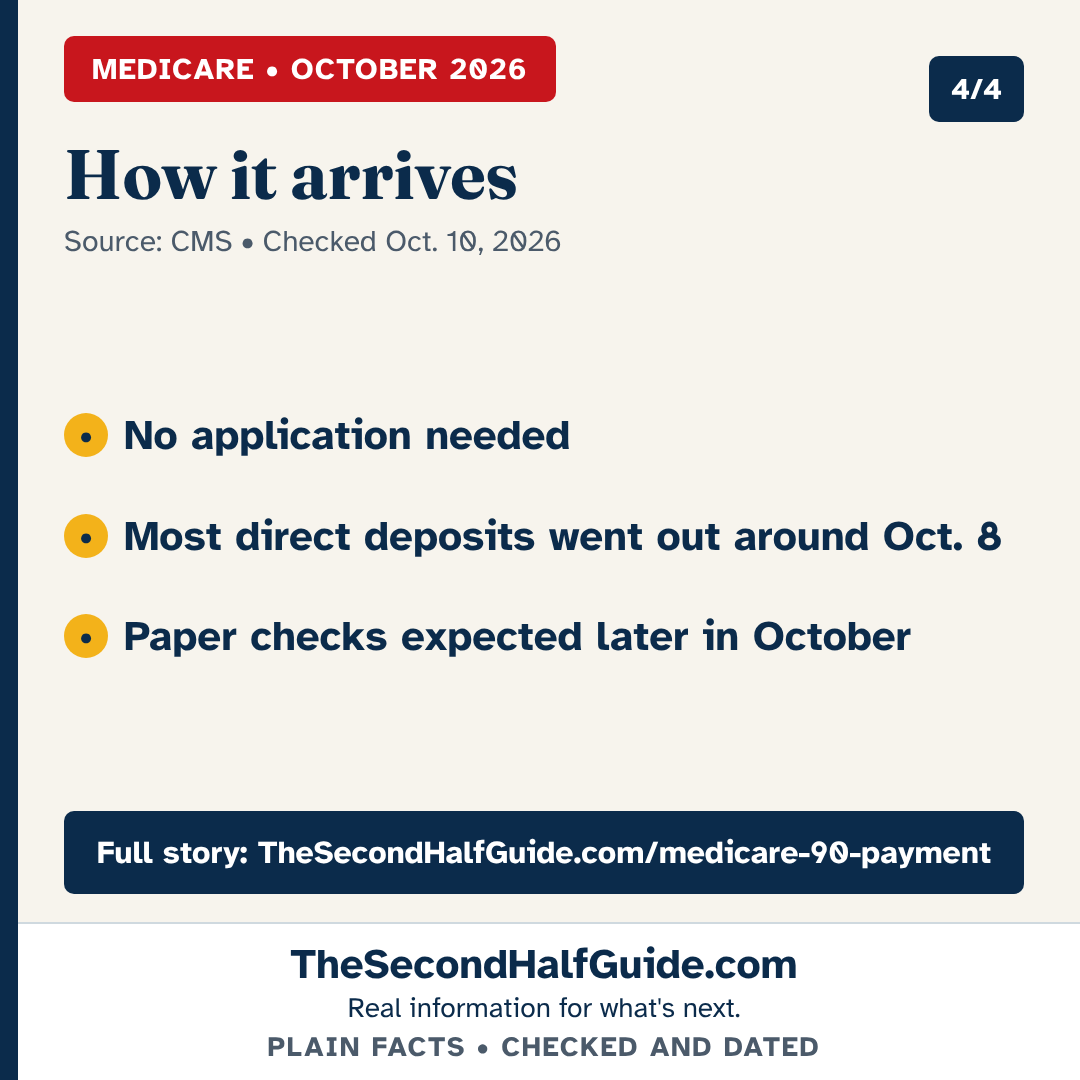
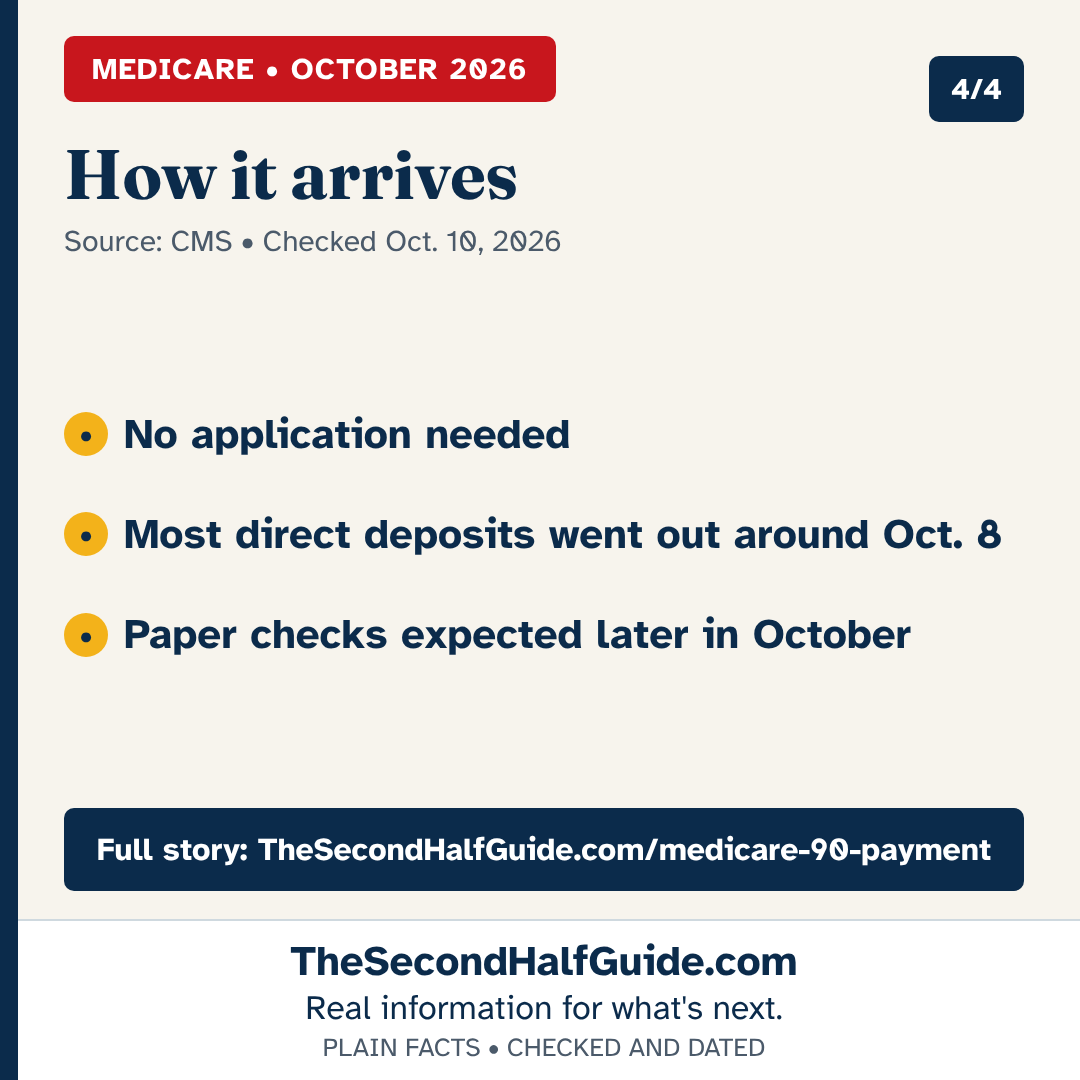
SECONDSOCIAL: footer hierarchy - tagline larger, trust line quiet
Claude-Session: https://claude.ai/code/session_013usLijphTiRiK9vK4nRT8e

diff --git a/secondsocial/render/render.py b/secondsocial/render/render.py
@@ -46,8 +46,8 @@ body:before{content:"";position:absolute;left:0;top:0;bottom:0;width:18px;backgr
 .strip div{font-size:28px;line-height:1.2;color:var(--ink)}.strip b{display:block;font-size:30px;color:var(--navy);text-transform:uppercase;letter-spacing:.03em}
 .foot{margin:auto -56px 0 -64px;padding:14px 56px 16px 64px;background:#fff;border-top:2px solid var(--line);text-align:center}
 .foot .site{font-size:42px;font-weight:700;color:var(--navy)}
-.foot .tag{font-size:28px;color:var(--navy)}
-.foot .src{font-size:28px;font-weight:700;letter-spacing:.06em;color:var(--muted);margin-top:4px}
+.foot .tag{font-size:34px;color:var(--navy)}
+.foot .src{font-size:26px;font-weight:400;color:var(--muted);margin-top:2px}
 .gap{flex:1;min-height:20px}
 .big .hero b{font-size:260px}.big .stat b{font-size:100px}
 .slide{font-size:70px;font-weight:700;color:var(--navy);font-family:Fra,serif;line-height:1.1;margin-top:34px}
